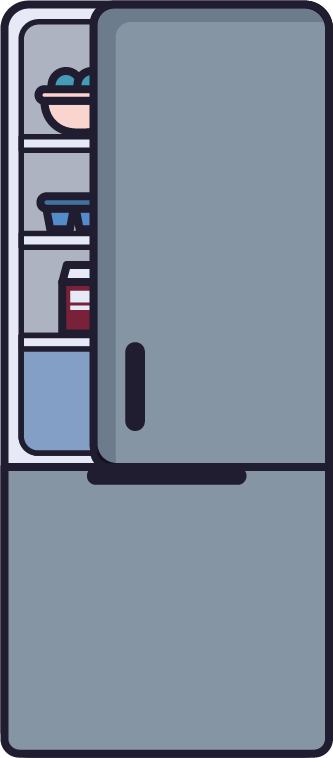
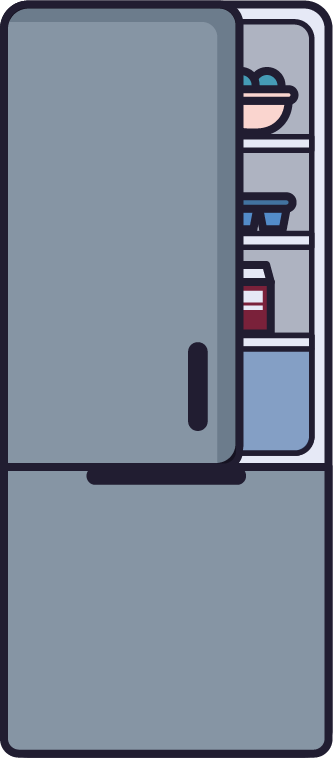
add changes

diff --git a/src/index.scss b/src/index.scss
@@ -10,8 +10,8 @@ body{
 #first-container {
     display: flex;
     flex-direction: column;
-    // border-style: solid;
-    width: 75%;
+    // border-style: solid 1px pink;
+    // width: 75%;
     z-index: 1;
 }
 
@@ -26,18 +26,18 @@ body{
     background-image: url("../src/assets/Kitchen_furniture_set/Dishwasher_white_open.png");
 }
 
-
-#fridge {
-    // border-style: solid;
+#fridge-container {
+    overflow: hidden;
     height: 857px;
     width: 100%;
     margin-right: 5px;
+}
+#fridge {
     background-image: url("../src/assets/Kitchen_furniture_set/Fridge_gray_2_open_1.png");
     background-repeat: no-repeat;
     background-position: bottom;
     background-size: 89%;
     z-index: 1;
-
 }
 
 #fridge:hover{
@@ -685,268 +685,3 @@ body{
         color: #7393B3;
         font-family: cursive;
 }
-
-
-
-
-
-
-
-
-
-
-
-
-
-
-
-//////////////////////////////////////////////////////////////////
-
-
-// #fridge {
-//     color: purple;
-//     border-style: solid;
-//     padding-top: 400px;
-//     display: flex;
-//     justify-content: right;
-//     align-items: flex-end;
-//     position: fixed;
-//     bottom: 20px;
-//     left: 1475px;
-//     background-image: url("/src/assets/Kitchen_furniture_set/Fridge_gray_2_open_1.png");
-//     background-repeat: no-repeat;
-//     background-position: center;
-//     background-size: cover;
-// }
-
-// #fridge:hover {
-//     background-color: aqua;
-// }
-
-// #tooltip {
-//     position: absolute; 
-//     width: 200px;
-//     height: auto;
-//     padding: 10px;
-//     background-color: rgb(161, 161, 161);
-//     -webkit-border-radius: 10px;
-//     -moz-border-radius: 10px;
-//     border-radius: 10px;
-//     opacity: 0;
-// }
-
-// body{
-//     display: flex;
-//     justify-content: space-evenly;
-//     background-color: #7393B3;
-// }
-
-// .hidden{
-//     display: none;
-// }
-
-// .ing-page{
-//     display: flex;
-//     justify-content: center;
-//     align-items: center;
-//     border-style: solid;
-//     position: absolute;
-//     top: 50%;
-//     left: 50%;
-//     background-color: gray;
-// }
-
-// .ingredients {
-//     list-style: none;
-//     border-style: solid;
-// }
-
-// .recipe-page{
-//     display: block;
-//     justify-content: center;
-//     align-items: center;
-//     border-style: solid;
-//     background-color: gray;
-//     position: absolute;
-// }
-
-// .drawer-page {
-//     border-style: solid;
-//     background-color: gray;
-//     position: absolute;
-//     top: 50%;
-//     left: 50%;
-// }
-
-// #drawer{
-//     border-style: solid;
-//     padding-right: 150px;
-//     padding-top: 287px;
-//     display: flex;
-//     justify-content: right;
-//     align-items: flex-end;
-//     position: fixed;
-//     bottom: 20px;
-//     left: 435px;
-//     background-image: url("/src/assets/Kitchen_furniture_set/Cabinet_white_2.png");
-//     background-repeat: no-repeat;
-//     background-position: center;
-//     background-size: cover;
-// }
-
-
-// #oven {
-//     color: purple;
-//     background-image: url("/src/assets/Kitchen_furniture_set/Stove_open.png");
-//     background-repeat: no-repeat;
-//     background-position: center;
-//     background-size: cover;
-//     display: flex;
-//     justify-content: right;
-//     align-items: end;
-//     border-style: solid;
-//     position: fixed;
-//     bottom: 20px;
-//     left: 50px;
-// }
-
-
-// #oven:hover {
-//     background-color: aqua;
-// }
-
-// #sink-cabinet{
-//     border-style: solid;
-//     padding-right: 300px;
-//     padding-top: 415px;
-//     display: flex;
-//     justify-content: right;
-//     align-items: flex-end;
-//     position: fixed;
-//     bottom: 20px;
-//     left: 743px;
-//     background-image: url("/src/assets/Kitchen_furniture_set/Cabinet_white_4.png");
-//     background-repeat: no-repeat;
-//     background-position: center;
-//     background-size: cover;
-// }
-
-// #sink-top{
-//     border-style: solid;
-//     padding: top 50px;
-//     padding-bottom: 100px;
-//     padding-right: 300px;
-//     display: flex;
-//     justify-content: right;
-//     align-items: flex-end;
-//     position: fixed;
-//     bottom: 440px;
-//     left: 743px;
-//     background-image: url("/src/assets/Kitchen_furniture_set/Sink_1.png");
-//     background-repeat: no-repeat;
-//     background-position: center;
-//     background-size: cover;
-// }
-
-// #sink {
-//     background-color: red;
-// }
-
-// #dishwasher {
-//     border-style: solid;
-//     padding-right: 400px;
-//     padding-top: 415px;
-//     display: flex;
-//     justify-content: right;
-//     align-items: flex-end;
-//     position: fixed;
-//     bottom: 20px;
-//     left: 1050px;
-//     background-image: url("/src/assets/Kitchen_furniture_set/Dishwasher_white_close.png");
-//     background-repeat: no-repeat;
-//     background-position: center;
-//     background-size: cover;
-// }
-
-// #hood {
-//     border-style: solid;
-//     padding-right: 400px;
-//     padding-top: 415px;
-//     display: flex;
-//     justify-content: right;
-//     align-items: flex-end;
-//     position: fixed;
-//     top: 20px;
-//     left: 95px;
-//     background-image: url("/src/assets/Kitchen_furniture_set/Range_hood_3.png");
-//     background-repeat: no-repeat;
-//     background-position: center;
-//     background-size: cover;
-//     padding-left: 150px;
-//     padding-right: 150px;
-//     padding-bottom: 65px;
-//     padding-top: 200px;
-// }
-
-// #cabinet {
-//     border-style: solid;
-//     padding-right: 400px;
-//     padding-top: 415px;
-//     display: flex;
-//     justify-content: right;
-//     align-items: flex-end;
-//     position: fixed;
-//     top: 20px;
-//     left: 435px;
-//     background-image: url("/src/assets/Kitchen_furniture_set/Cupboard_white_1.png");
-//     background-repeat: no-repeat;
-//     background-position: center;
-//     background-size: cover;
-//     padding-left: 200px;
-//     padding-right: 150px;
-//     padding-bottom: 150px;
-//     padding-top: 200px;
-// }
-// #cabinetTwo {
-//     border-style: solid;
-//     padding-right: 400px;
-//     padding-top: 415px;
-//     display: flex;
-//     justify-content: right;
-//     align-items: flex-end;
-//     position: fixed;
-//     top: 20px;
-//     left: 790px;
-//     background-image: url("/src/assets/Kitchen_furniture_set/Cupboard_white_1.png");
-//     background-repeat: no-repeat;
-//     background-position: center;
-//     background-size: cover;
-//     padding-left: 200px;
-//     padding-right: 150px;
-//     padding-bottom: 150px;
-//     padding-top: 200px;
-// }
-// #cabinetThree {
-//     border-style: solid;
-//     padding-right: 400px;
-//     padding-top: 415px;
-//     display: flex;
-//     justify-content: right;
-//     align-items: flex-end;
-//     position: fixed;
-//     top: 20px;
-//     left: 1145px;
-//     background-image: url("/src/assets/Kitchen_furniture_set/Cupboard_white_1.png");
-//     background-repeat: no-repeat;
-//     background-position: center;
-//     background-size: cover;
-//     padding-left: 200px;
-//     padding-right: 150px;
-//     padding-bottom: 150px;
-//     padding-top: 200px;
-// }
-
-
-
-
-

diff --git a/index.html b/index.html
@@ -18,10 +18,6 @@
         <div id="microwave"></div>
     </div>
 
-    <div id="sink-top-container">
-        <div id="sink-top"></div>
-    </div>
-
     <div id="pot-container">
         <div id="pot"></div>
     </div>
@@ -42,24 +38,30 @@
     </div>
     
     <!-- <div id="first-container">container-1 -->
+        <div id="right-container">
+            <div id="fridge-container">
+                <div id="fridge"></div>
+            </div>
+        </div>
         <div id="second-container">
             <div class="top-container">
-                <div id="hood"></div>
                 <div id="cabinet"></div>
+                <div id="hood"></div>
                 <div id="cabinet-two"></div>
                 <div id="cabinet-three"></div> 
             </div>
             <div class="bottom-container">
-                <div id="oven"></div>
                 <div id="drawer"></div>
-                <div id="sink-cabinet"></div>
+                <div id="oven"></div>
                 <div id="dishwasher"></div>
+                <div id="sink-cabinet">
+                    <div id="sink-top-container">
+                        <div id="sink-top"></div>
+                    </div>
+                </div>
 
             </div>
         </div>
-    <div id="right-container">
-    <div id="fridge"></div>
-    </div>
 
     
 
